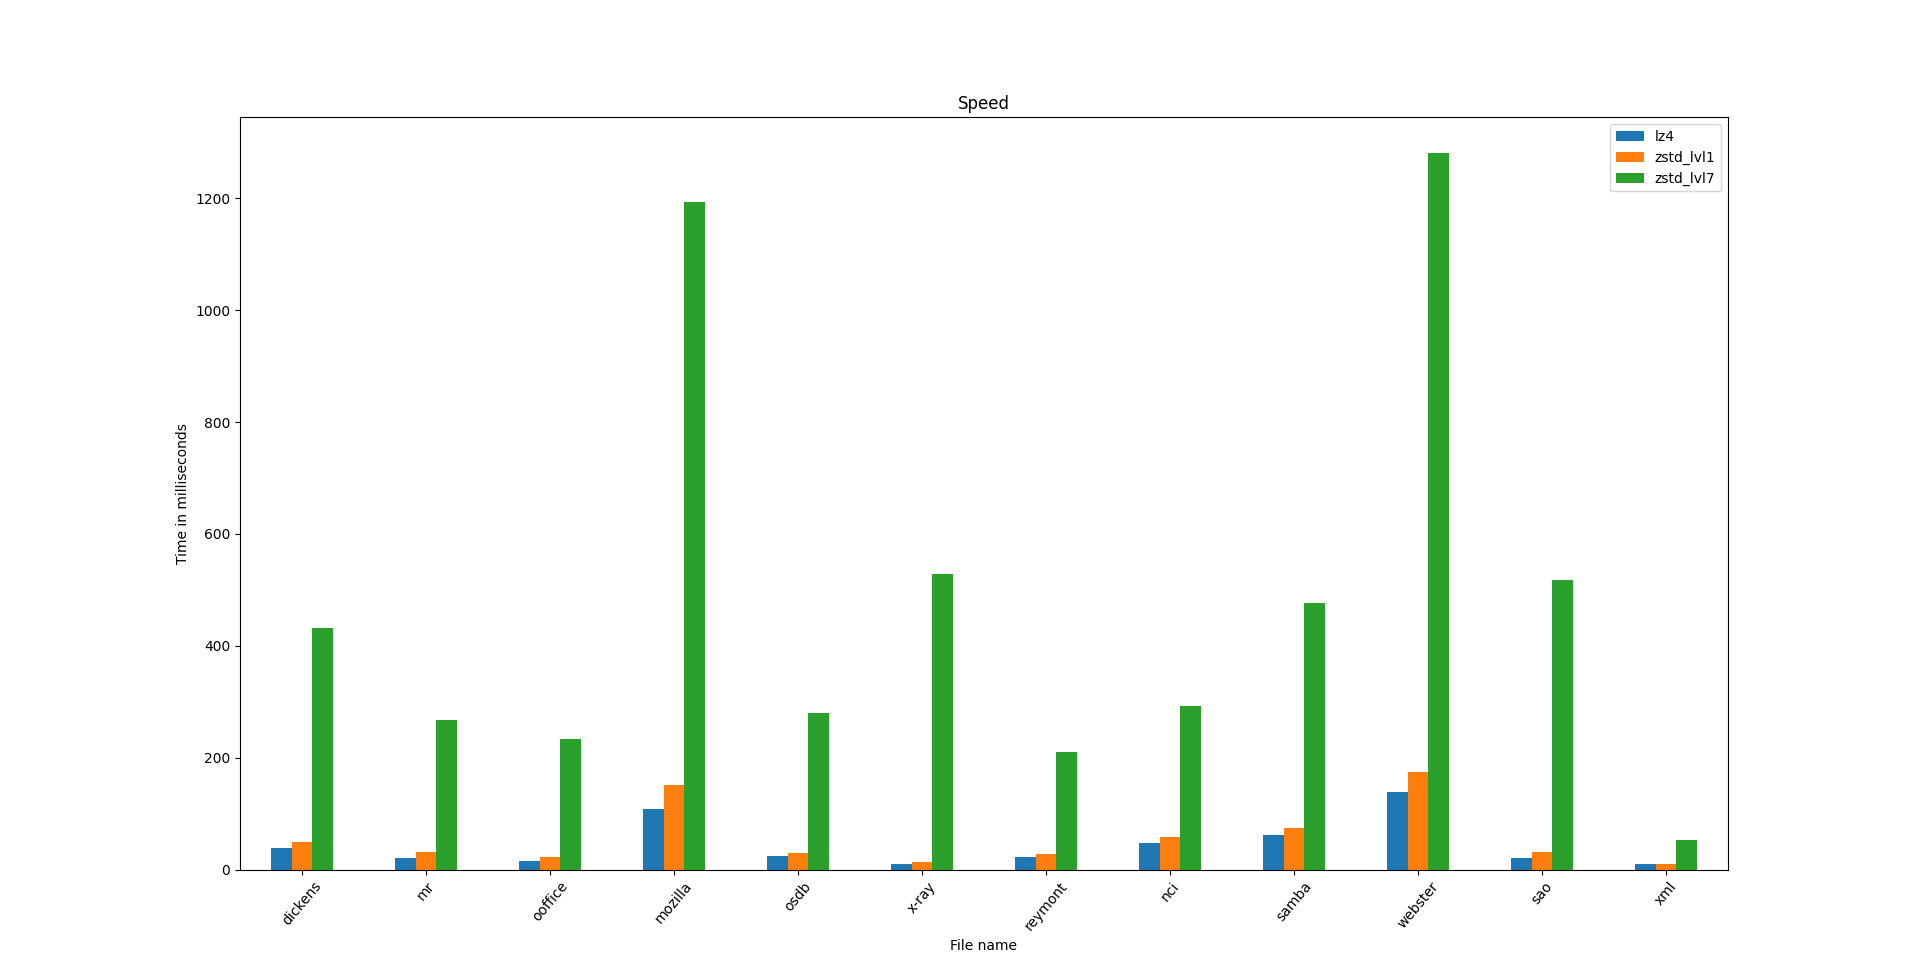
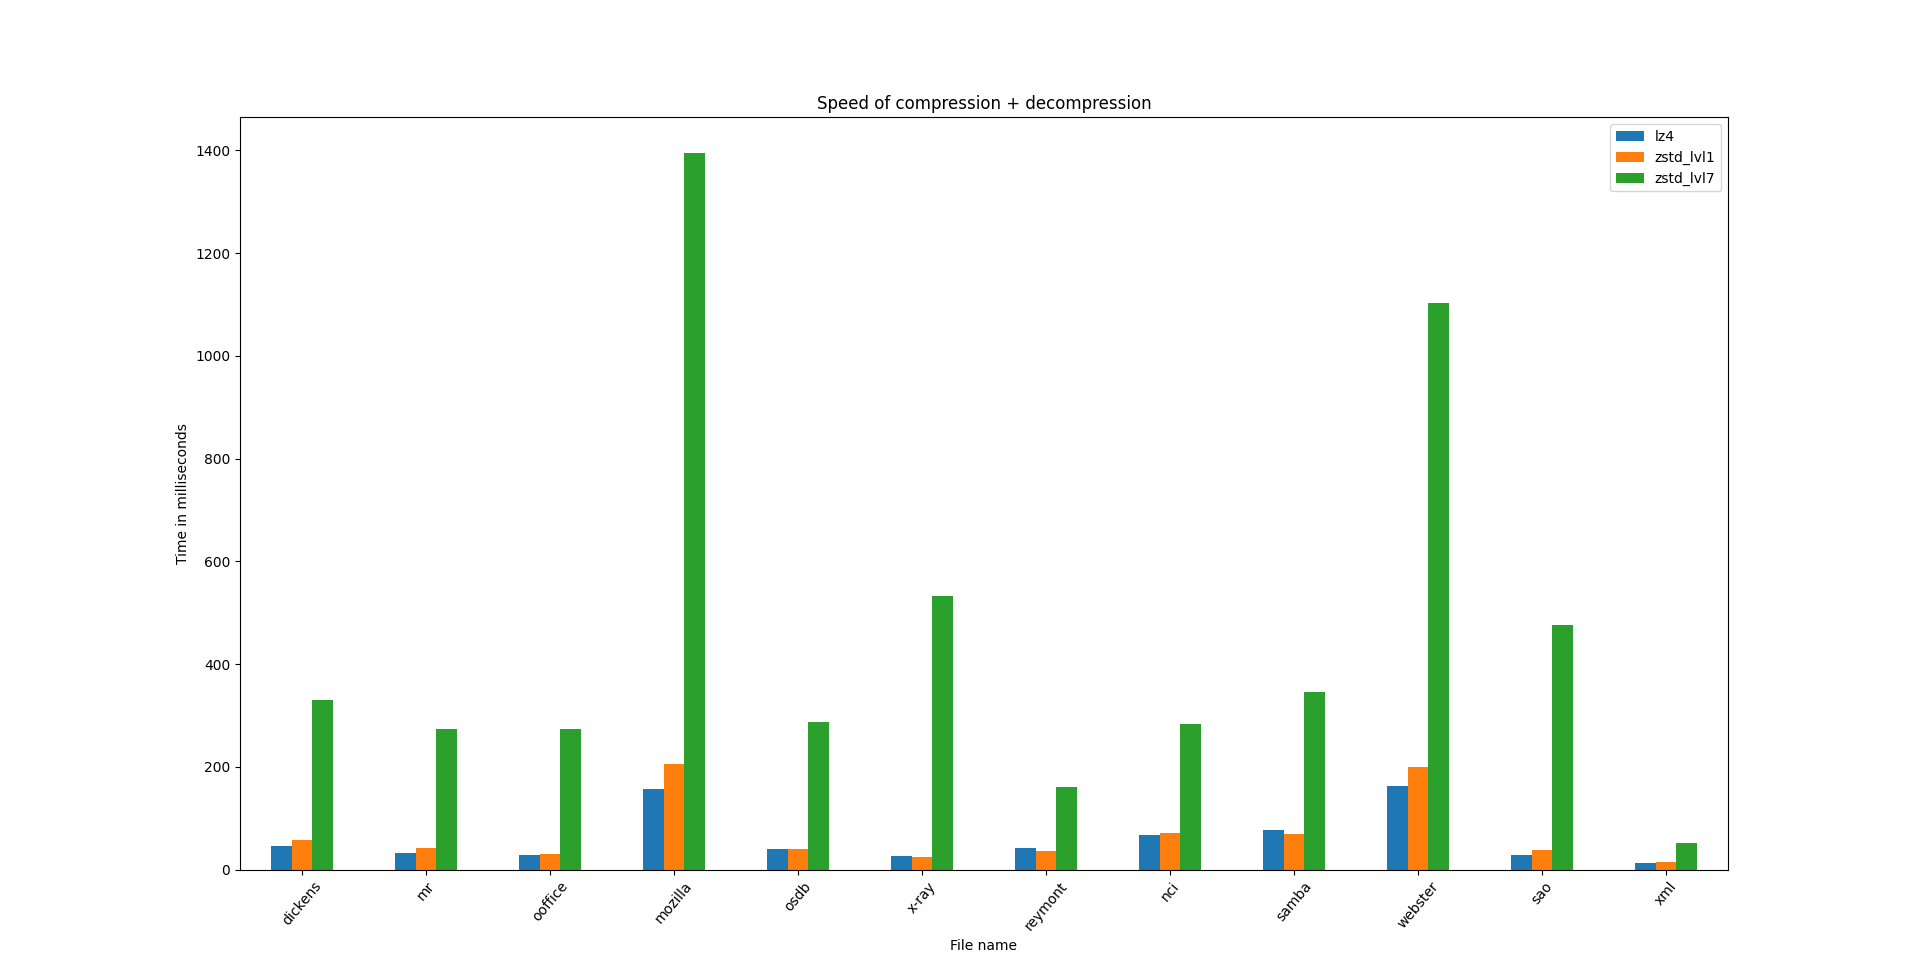
Add decompression to time measure

diff --git a/main.cpp b/main.cpp
@@ -16,23 +16,23 @@ enum Algorithm {
 
 void testCorrectness(std::filesystem::path& path, Algorithm algorithm) {
     std::ifstream is(path, std::ifstream::in | std::ifstream::binary);
-    auto size = (int) file_size(path);
-    char* data = static_cast<char *>(malloc(size));
-    char* compressed_data = static_cast<char *>(malloc(size));
-    char* decompressed_data = static_cast<char *>(malloc(size));
-    is.read(data, size);
+    auto data_size = (int) file_size(path);
+    char* data = static_cast<char *>(malloc(data_size));
+    char* compressed_data = static_cast<char *>(malloc(data_size));
+    char* decompressed_data = static_cast<char *>(malloc(data_size));
+    is.read(data, data_size);
     if (algorithm == Algorithm::LZ4) {
-        auto compressed_size = LZ4_compress_default(data, compressed_data, size, size);
-        LZ4_decompress_safe(compressed_data, decompressed_data, compressed_size, size);
+        auto compressed_size = LZ4_compress_default(data, compressed_data, data_size, data_size);
+        LZ4_decompress_safe(compressed_data, decompressed_data, compressed_size, data_size);
     } else if (algorithm == Algorithm::ZSTD1) {
-        auto compressed_size = (int) ZSTD_compress(compressed_data, size, data, size, 1);
-        ZSTD_decompress(decompressed_data, size, compressed_data, compressed_size);
+        auto compressed_size = (int) ZSTD_compress(compressed_data, data_size, data, data_size, 1);
+        ZSTD_decompress(decompressed_data, data_size, compressed_data, compressed_size);
     } else {
-        auto compressed_size = (int) ZSTD_compress(compressed_data, size, data, size, 7);
-        ZSTD_decompress(decompressed_data, size, compressed_data, compressed_size);
+        auto compressed_size = (int) ZSTD_compress(compressed_data, data_size, data, data_size, 7);
+        ZSTD_decompress(decompressed_data, data_size, compressed_data, compressed_size);
     }
 
-    assert(memcmp(data, decompressed_data, size) == 0);
+    assert(memcmp(data, decompressed_data, data_size) == 0);
 
     free(data);
     free(compressed_data);
@@ -44,36 +44,39 @@ struct Result {
     double compression_ratio;
 };
 
-Result testLZ4(char* data, char* compressed_data, int length) {
+Result testLZ4(char* data, char* compressed_data, char* decompressed_data, int length) {
     std::clock_t begin = clock();
-    int out_size = LZ4_compress_default(data, compressed_data, length, length);
+    int compressed_size = LZ4_compress_default(data, compressed_data, length, length);
+    LZ4_decompress_safe(compressed_data, decompressed_data, compressed_size, length);
     std::clock_t end = clock();
 
     return {
         ((end - begin) * 1000) / CLOCKS_PER_SEC,
-        (double)length / out_size
+        (double)length / compressed_size
     };
 }
 
-Result testZSTD1(char* data, char* compressed_data, int length) {
+Result testZSTD1(char* data, char* compressed_data, char* decompressed_data, int length) {
     std::clock_t begin = clock();
-    std::size_t out_size = ZSTD_compress(compressed_data, length, data, length, 1);
+    std::size_t compressed_size = ZSTD_compress(compressed_data, length, data, length, 1);
+    ZSTD_decompress(decompressed_data, length, compressed_data, compressed_size);
     std::clock_t end = clock();
 
     return {
             ((end - begin) * 1000) / CLOCKS_PER_SEC,
-            (double)length / (double)out_size
+            (double)length / (double)compressed_size
     };
 }
 
-Result testZSTD7(char* data, char* compressed_data, int length) {
+Result testZSTD7(char* data, char* compressed_data, char* decompressed_data, int length) {
     std::clock_t begin = clock();
-    std::size_t out_size = ZSTD_compress(compressed_data, length, data, length, 7);
+    std::size_t compressed_size = ZSTD_compress(compressed_data, length, data, length, 7);
+    ZSTD_decompress(decompressed_data, length, compressed_data, compressed_size);
     std::clock_t end = clock();
 
     return {
             ((end - begin) * 1000) / CLOCKS_PER_SEC,
-            (double)length / (double)out_size
+            (double)length / (double)compressed_size
     };
 }
 
@@ -88,30 +91,34 @@ int main(int argc, char* argv[]) {
     for (int k = 1; k < argc; ++k) {
         std::filesystem::path path(argv[k]);
 
-//        testCorrectness(path, Algorithm::LZ4);
-//        testCorrectness(path, Algorithm::ZSTD1);
-//        testCorrectness(path, Algorithm::ZSTD7);
+        if (k == 1) {
+            testCorrectness(path, Algorithm::LZ4);
+            testCorrectness(path, Algorithm::ZSTD1);
+            testCorrectness(path, Algorithm::ZSTD7);
+        }
 
         speed << path.filename() << ',';
         compression << path.filename() << ',';
-        int length = (int)file_size(path);
-        char* data = static_cast<char *>(malloc(length));
+        int data_size = (int)file_size(path);
+        char* data = static_cast<char *>(malloc(data_size));
         std::ifstream input(path, std::ifstream::in | std::ifstream::binary);
-        input.read(data, length);
-        char* compressed_data = static_cast<char *>(malloc(length));
+        input.read(data, data_size);
+        char* compressed_data = static_cast<char *>(malloc(data_size));
+        char* decompressed_data = static_cast<char *>(malloc(data_size));
 
-        auto result = testLZ4(data, compressed_data, length);
+        auto result = testLZ4(data, compressed_data, decompressed_data, data_size);
         speed << result.milliseconds << ',';
         compression << result.compression_ratio << ',';
 
-        result = testZSTD1(data, compressed_data, length);
+        result = testZSTD1(data, compressed_data, decompressed_data, data_size);
         speed << result.milliseconds << ',';
         compression << result.compression_ratio << ',';
 
-        result = testZSTD7(data, compressed_data, length);
+        result = testZSTD7(data, compressed_data, decompressed_data, data_size);
         speed << result.milliseconds << '\n';
         compression << result.compression_ratio << '\n';
 
+        free(decompressed_data);
         free(compressed_data);
         free(data);
     }

diff --git a/plot.py b/plot.py
@@ -9,7 +9,7 @@ d['lz4'] = []
 d['zstd_lvl1'] = []
 d['zstd_lvl7'] = []
 
-dictReader = csv.DictReader(open('cmake-build-debug/compression.csv', 'r'), fieldnames = ['filename', 'lz4', 'zstd_lvl1', 'zstd_lvl7'], delimiter = ',', quotechar = '"')
+dictReader = csv.DictReader(open('cmake-build-debug/speed.csv', 'r'), fieldnames = ['filename', 'lz4', 'zstd_lvl1', 'zstd_lvl7'], delimiter = ',', quotechar = '"')
 
 t = True
 for row in dictReader:
@@ -26,7 +26,7 @@ data = {'lz4': d['lz4'],
         'zstd_lvl1': d['zstd_lvl1'],
         'zstd_lvl7': d['zstd_lvl7']}
 df = pd.DataFrame(data)
-df.plot(kind='bar', title='Compression', xlabel='File name', ylabel='Compression ratio') #, logy=True
+df.plot(kind='bar', title='Speed of compression + decompression', xlabel='File name', ylabel='Time in milliseconds')
 
 index = np.arange(len(d['filename']))
 plt.xticks(index, d['filename'], rotation=50)
